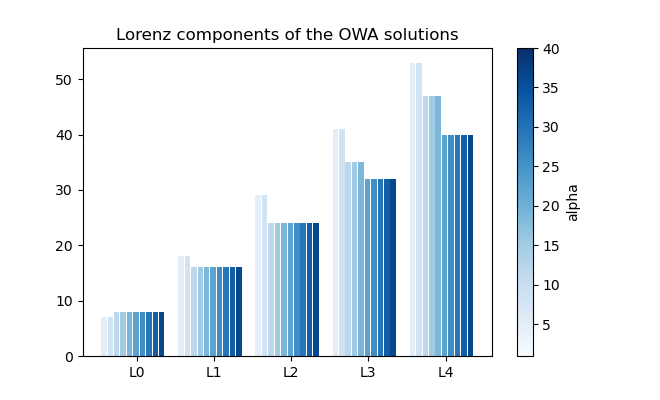
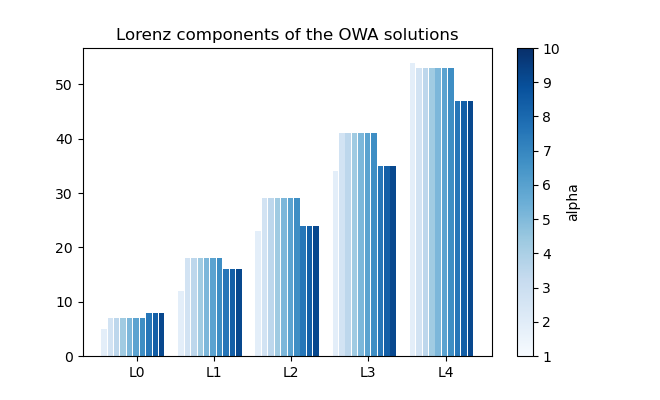
Fixed bug in weights generator and regenerated results for Q1.1 and Q1.2

diff --git a/main.py b/main.py
@@ -80,6 +80,7 @@ def question_1_1(alpha_min=1, alpha_max=10, plot_figures=False):
         ax1.title.set_text("Satisfaction of each agent")
         ax1.set_xticks(x)
         ax1.set_xticklabels(["Agent "+str(i) for i in range(1, nb_agents+1)])
+        ax1.set_yticks(range(0, 21, 2))
         fig1.colorbar(mpl.cm.ScalarMappable(norm=norm, cmap=cmap), ax=[ax1], label='alpha')
         plt.savefig("question_1_1_solution.png")
 
@@ -95,7 +96,7 @@ def question_1_1(alpha_min=1, alpha_max=10, plot_figures=False):
         plt.savefig("question_1_1_runtimes.png")
         plt.show()
 
-def question_1_2(nb_agents_list=[5, 10, 15]):
+def question_1_2(nb_agents_list=[5, 10, 15], one_to_one=True):
     """
     Analysis of execution time for OWA problems of various sizes.
     """
@@ -107,7 +108,7 @@ def question_1_2(nb_agents_list=[5, 10, 15]):
         for i in range(10):
             utilities = generate_OWA_problem(nb_agents, nb_items)
             weights = OWA_weights_generator(nb_agents)
-            solution, runtime = OWA_LP(nb_agents, nb_items, utilities, weights, one_to_one=True)
+            solution, runtime = OWA_LP(nb_agents, nb_items, utilities, weights, one_to_one=one_to_one)
             times.append(runtime)
         avg_times.append(np.mean(times))
 
@@ -188,6 +189,7 @@ if __name__ == "__main__":
 
     #solve_OWA_problem("owa_example.txt", alpha=1, verbose=True)
     #solve_OWA_problem()
-    question_1_1(alpha_max=40, plot_figures=True)
+    #question_1_1(alpha_max=10, plot_figures=True)
     #question_1_2([i for i in range(3, 15)])
+    question_1_2(one_to_one=False)
     #question_1_3()

diff --git a/utils.py b/utils.py
@@ -44,7 +44,7 @@ def generate_OWA_problem(nb_agents, nb_items):
     Generates utilities for a problem to be resolved with OWA.
     """
 
-    return np.random.randint(30, size=(nb_agents, nb_items))
+    return np.random.randint(50, size=(nb_agents, nb_items))
 
 def OWA_weights_generator(n, alpha=None):
 
@@ -55,7 +55,7 @@ def OWA_weights_generator(n, alpha=None):
     if alpha < 1:
         print("Error: alpha must be greater than or equals to 1.") 
 
-    weights = [((n-i+1)/2)**alpha - ((n-i)/n)**alpha for i in range(n)]
+    weights = [((n-i+1)/n)**alpha - ((n-i)/n)**alpha for i in range(n)]
     return np.array(weights)
 
 def lorenz_vector(x):
